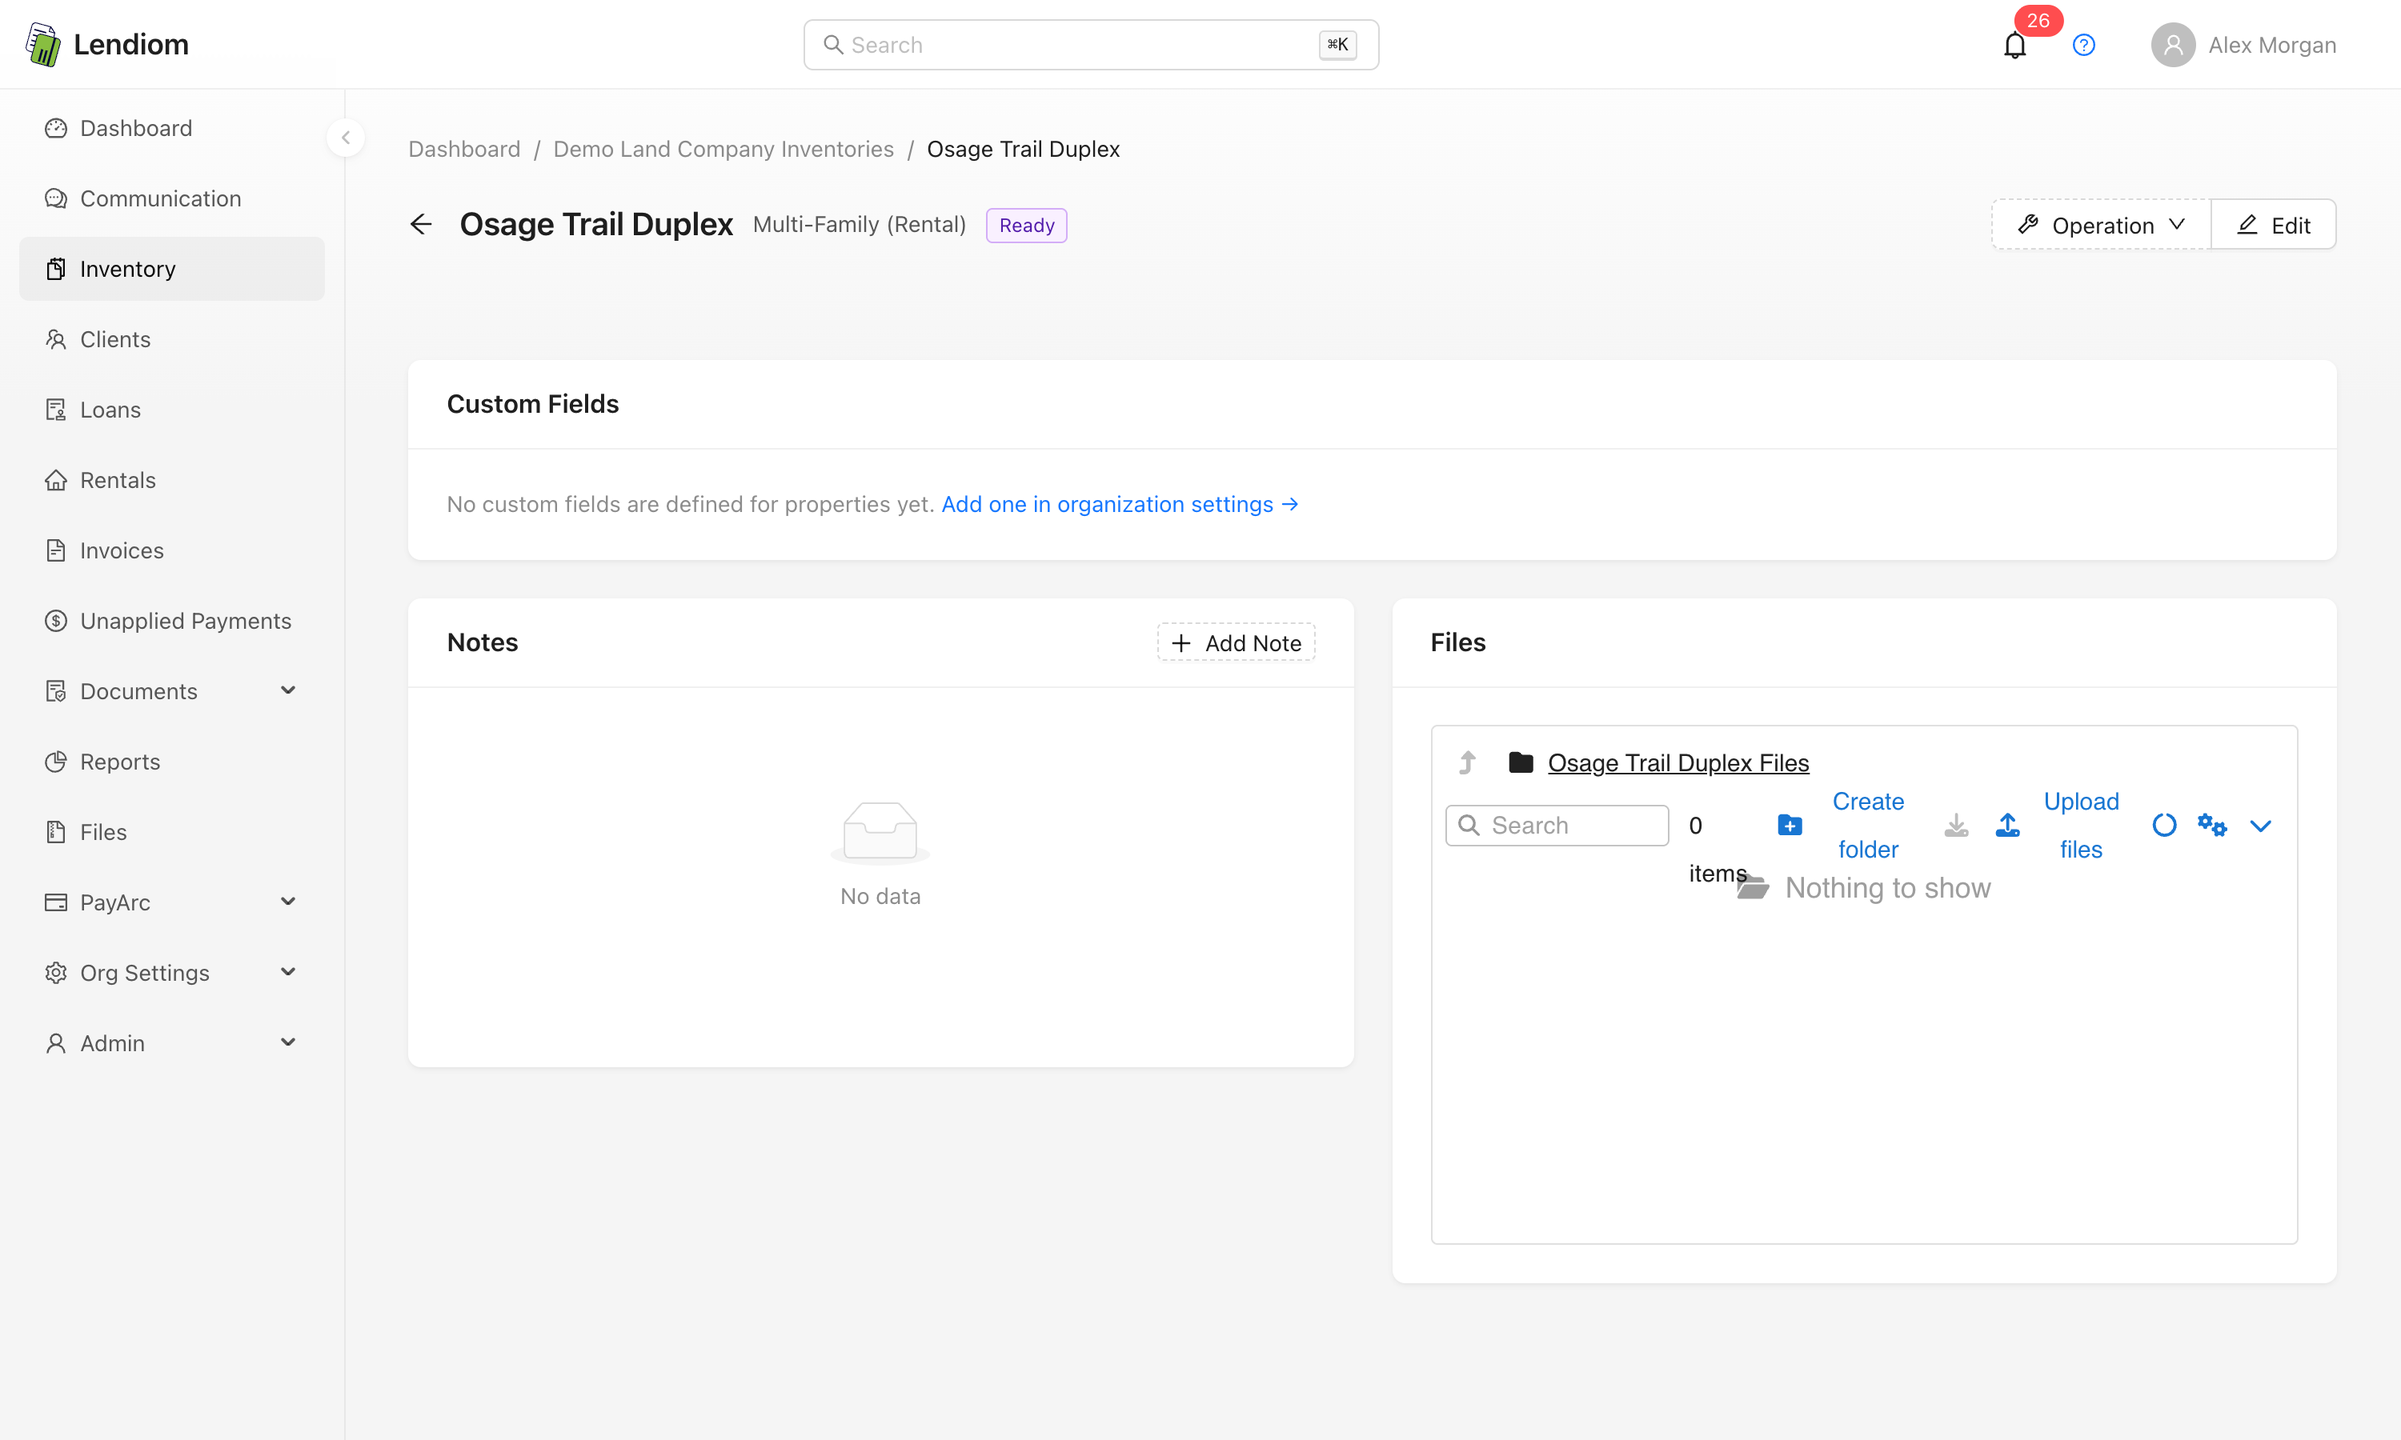
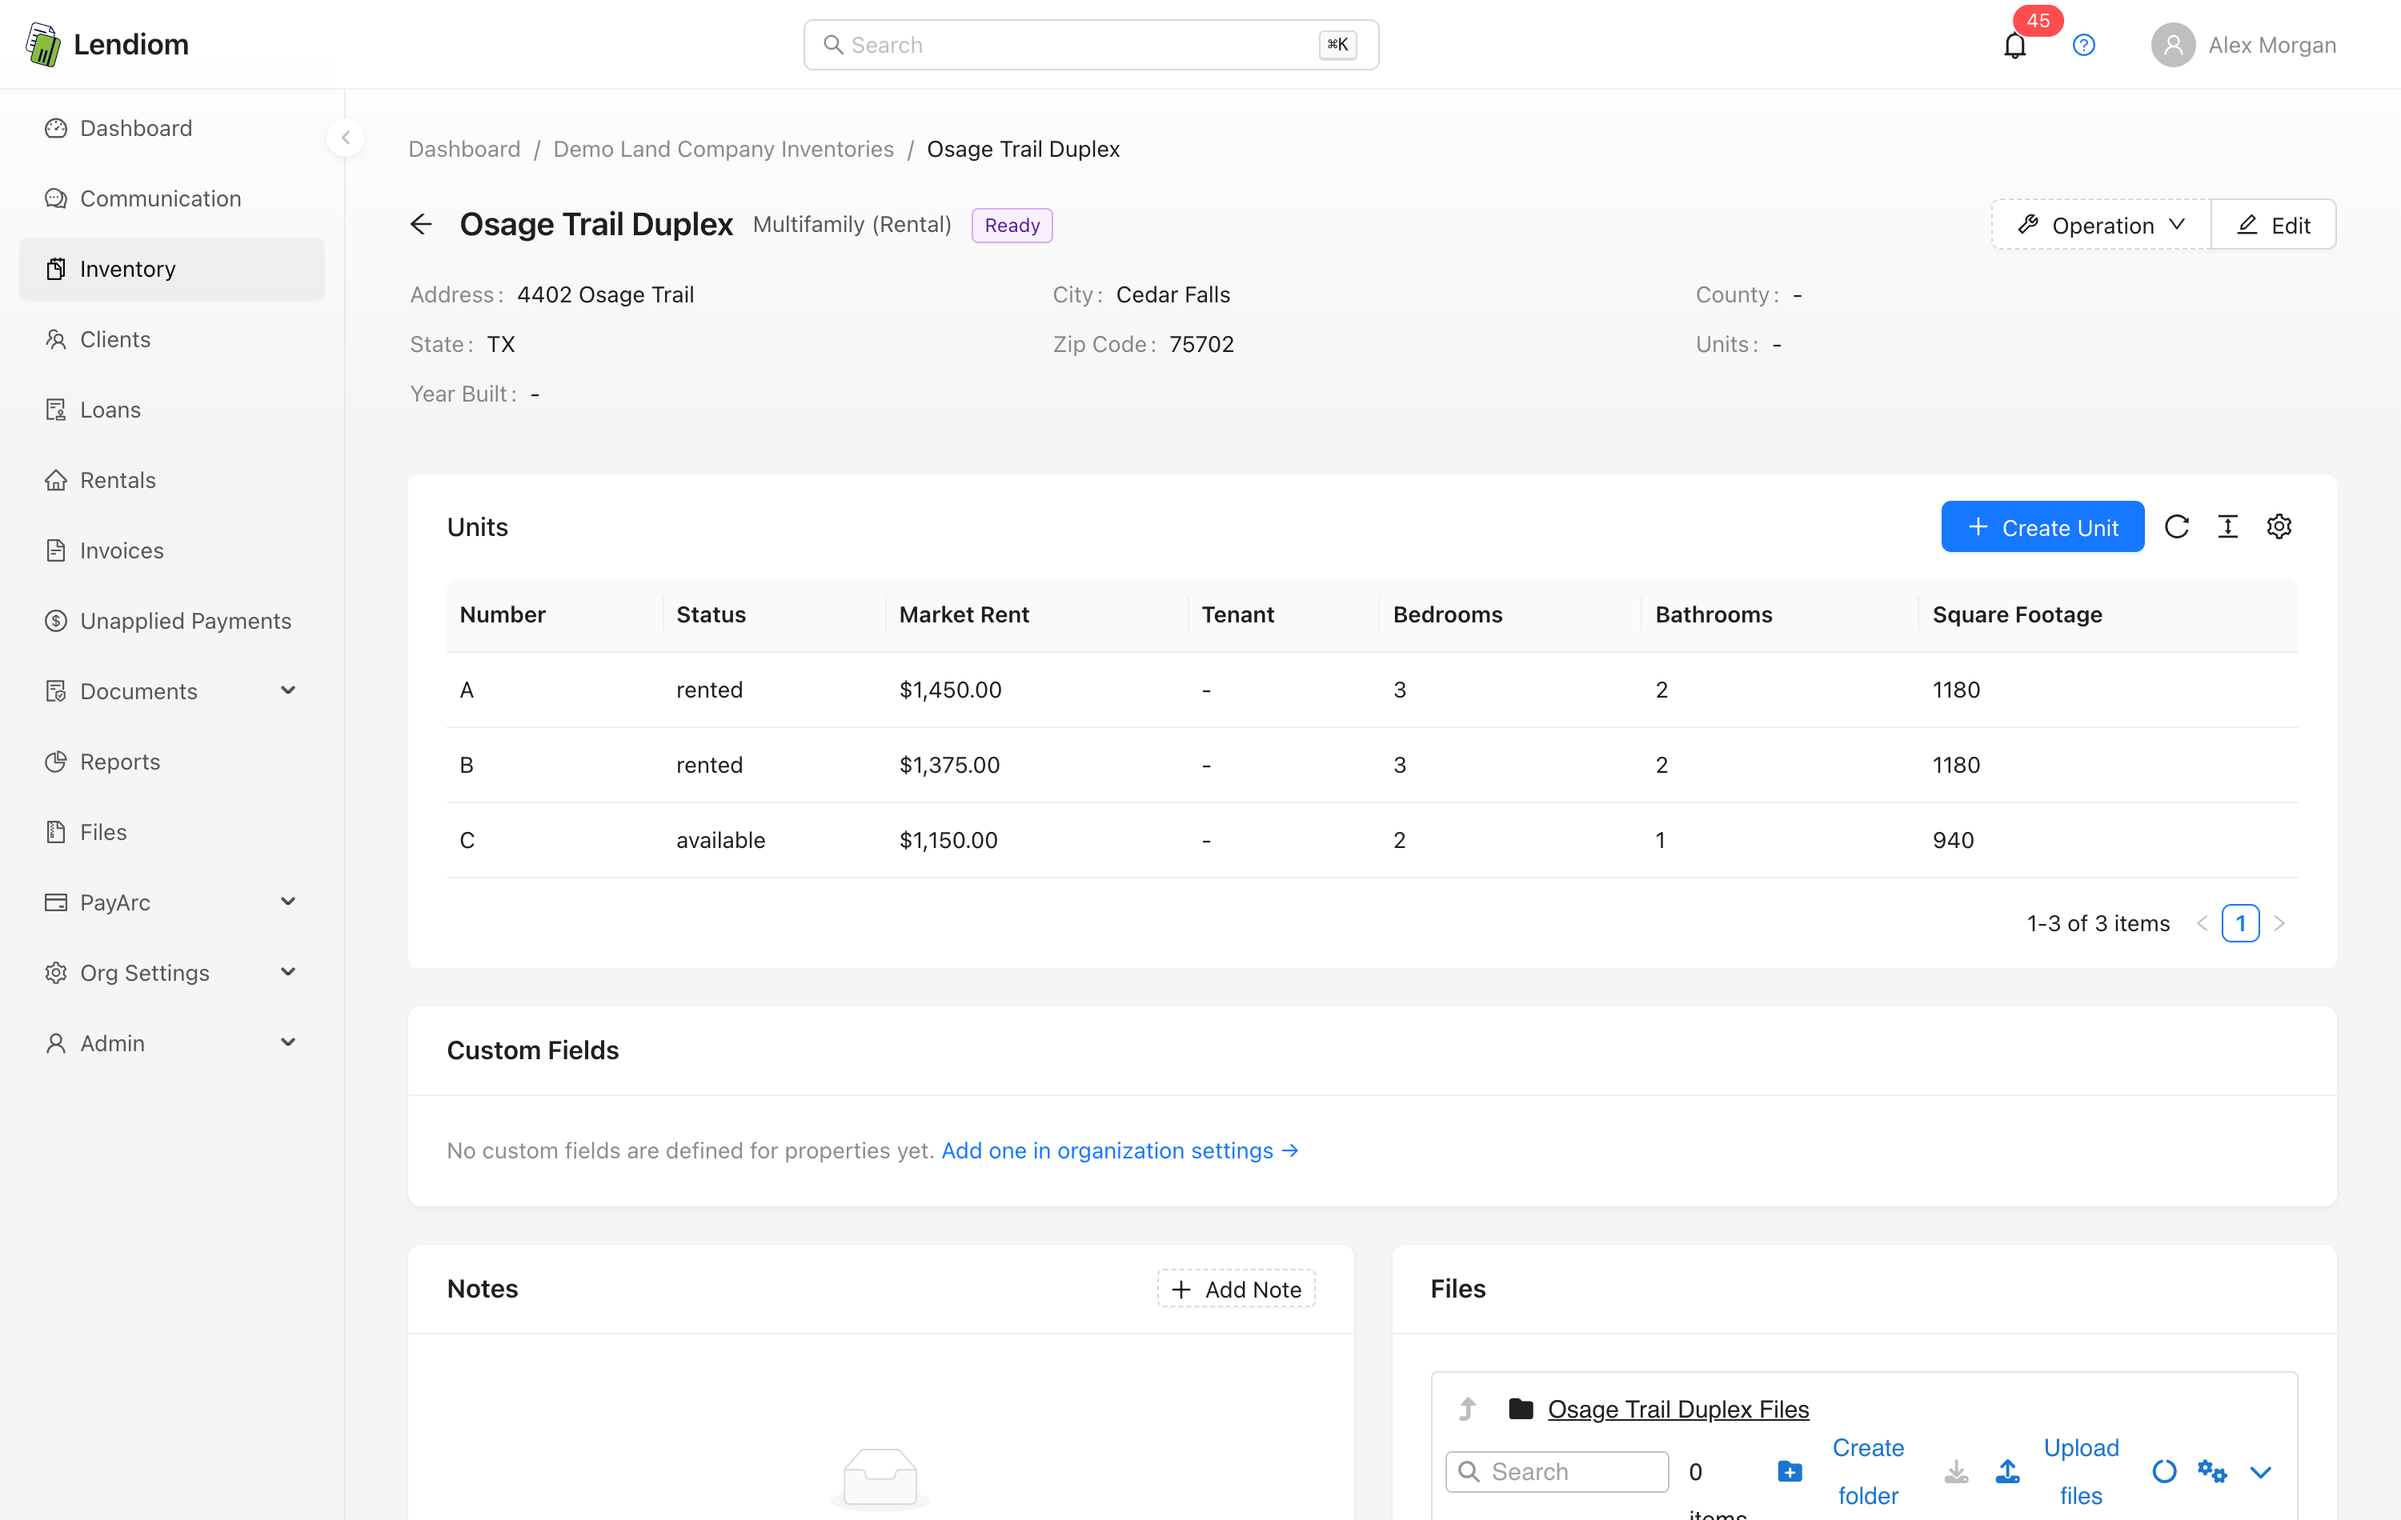
docs: capture the multifamily units screens
The rental property had been seeded with category "multi-family"; the enum
value is "multifamily". The API accepted the invalid value without
complaint, which is why the Units card never rendered on the property page
and the Unit selector never appeared in the rental wizard. Neither looked
like a data problem from the outside — both simply showed nothing.

With the category corrected, this adds the property page, the Units table
with its rented and available rows, and the New Unit drawer. Unit rents,
square footage and tenant links are filled in so the table is not a row of
zeros.

diff --git a/docs/app/guides/units-on-multifamily.md b/docs/app/guides/units-on-multifamily.md
@@ -30,7 +30,7 @@ The unit appears in the table right away. Units are always listed in order by nu
 
 <!-- screenshot: the Units card in its empty state, showing "No units found. Create one to start today:" with a blue Create Unit button beneath it -->
 
-<!-- screenshot: the New Unit drawer open over the inventory page, titled "New Unit for: Demo Land Company Apartments", with Number, Status, Market Rent, Tenant, Bedrooms, Bathrooms, and Square Footage filled in -->
+![The New Unit drawer over a multifamily property, with the unit detail fields](/img/docs/app/guides/units-on-multifamily/02.png)
 
 ## The fields
 
